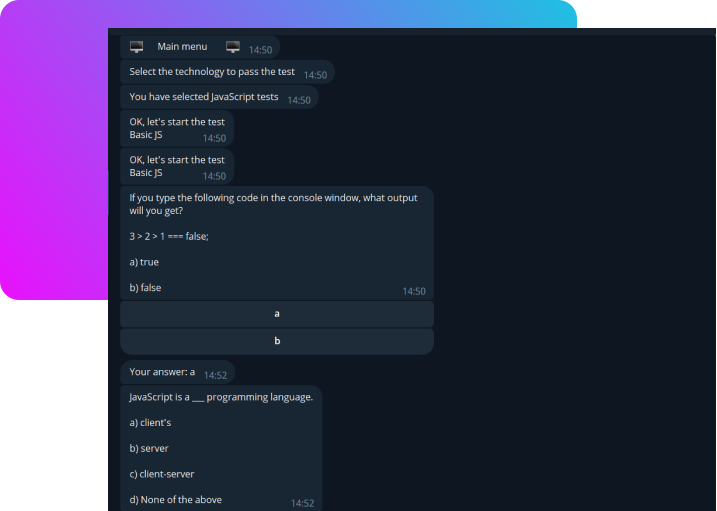
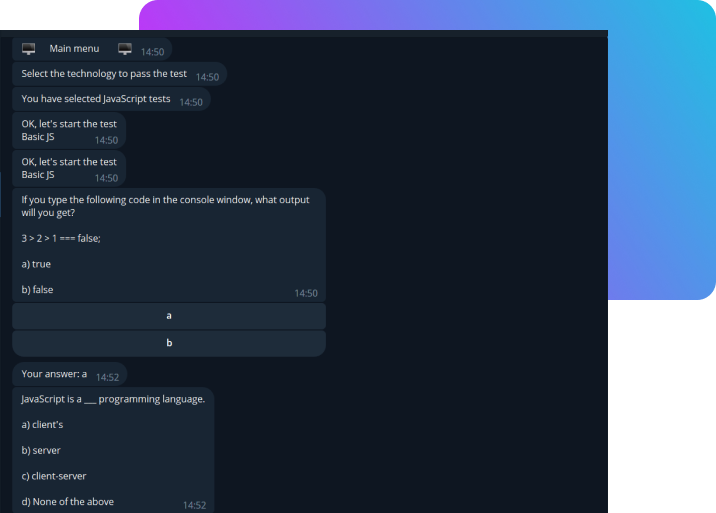
Add animation for information block

diff --git a/src/components/ForHomePage/InformationBlockMain/InformationTelegram/InformationTelegram.js b/src/components/ForHomePage/InformationBlockMain/InformationTelegram/InformationTelegram.js
@@ -1,73 +1,33 @@
 import React, {useEffect, useState} from 'react';
+import {useSelector} from 'react-redux';
 
 import css from '../InformationTesting/InformationTesting.module.css';
 import cssThis from '../InformationCollaboration/InformationCollaboration.module.css';
 import telegram from '../../../../images/information/telegramChat.png';
 import longColorArrow from '../../../../images/information/longColorArrow.svg';
-import {useSelector} from 'react-redux';
 
 const InformationTelegram = () => {
     const {EN} = useSelector(state => state['languageReducers']);
-    const [imageTelegramActive, setImageTelegramActive] = useState(false);
-    const [scrollTop, setScrollTop] = useState(0);
+    const [scrollTop, setScrollTop] = useState(false);
 
     useEffect(() => {
-        const onScroll = e => {
-            setScrollTop(e.target.documentElement.scrollTop);
-        };
-        window.addEventListener('scroll', onScroll);
+            window.addEventListener('scroll', function () {
+                let element = document.querySelector('#telegramInfo');
+                let position = element.getBoundingClientRect();
 
-        return () => window.removeEventListener('scroll', onScroll);
-    }, [scrollTop]);
-
-    useEffect(() => {
-        if (window.innerWidth > 1300) {
-            if (scrollTop >= 3 * window.innerHeight) {
-                setImageTelegramActive(true);
-            } else {
-                setImageTelegramActive(false);
-            }
-        } else if (window.innerWidth > 1200) {
-            if (scrollTop >= 2.35 * window.innerHeight) {
-                setImageTelegramActive(true);
-            } else {
-                setImageTelegramActive(false);
-            }
-        } else if (window.innerWidth > 992) {
-            if (scrollTop >= 2.25 * window.innerHeight) {
-                setImageTelegramActive(true);
-            } else {
-                setImageTelegramActive(false);
-            }
-        } else if (window.innerWidth > 767) {
-            if (scrollTop >= 1.9 * window.innerHeight) {
-                setImageTelegramActive(true);
-            } else {
-                setImageTelegramActive(false);
-            }
-        } else if (window.innerWidth > 576) {
-            if (scrollTop >= 1.6 * window.innerHeight) {
-                setImageTelegramActive(true);
-            } else {
-                setImageTelegramActive(false);
-            }
-        }  else if (window.innerWidth > 400) {
-            if (scrollTop >= 1.35 * window.innerHeight) {
-                setImageTelegramActive(true);
-            } else {
-                setImageTelegramActive(false);
-            }
-        }else {
-            if (scrollTop >= 1.2 * window.innerHeight) {
-                setImageTelegramActive(true);
-            } else {
-                setImageTelegramActive(false);
-            }
+                if (position.top < window.innerHeight && position.bottom >= 0) {
+                    setScrollTop(true);
+                } else {
+                    setScrollTop(false)
+                }
+            });
         }
-    }, [scrollTop]);
+        ,
+        [scrollTop]
+    );
 
     return (
-        <div className={css.testing__main}>
+        <div id="telegramInfo" className={css.testing__main}>
             <div className={css.testing__text_box}>
                 <h4 className={css.testing__header}>
                     {EN ? 'Telegram bot' :
@@ -92,7 +52,7 @@ const InformationTelegram = () => {
 
             <div className={cssThis.testing__animation}>
                 <img src={telegram} alt="testing"
-                     className={imageTelegramActive ? cssThis.testing__img_active : cssThis.testing__img}/>
+                     className={scrollTop ? cssThis.testing__img_active : cssThis.testing__img}/>
             </div>
         </div>
     );

diff --git a/src/components/ForHomePage/InformationBlockMain/InformationCollaboration/InformationCollaboration.js b/src/components/ForHomePage/InformationBlockMain/InformationCollaboration/InformationCollaboration.js
@@ -10,63 +10,30 @@ import longColorArrow from '../../../../images/information/longColorArrow.svg';
 const InformationCollaboration = () => {
     const navigate = useNavigate();
     const {EN} = useSelector(state => state['languageReducers']);
-    const [imageCollaborationActive, setImageCollaborationActive] = useState(false);
-    const [scrollTop, setScrollTop] = useState(0);
+    const [scrollTop, setScrollTop] = useState(false);
 
     useEffect(() => {
-        const onScroll = e => {
-            setScrollTop(e.target.documentElement.scrollTop);
-        };
-        window.addEventListener('scroll', onScroll);
+            window.addEventListener('scroll', function () {
+                let element = document.querySelector('#collaborationInfo');
+                let position = element.getBoundingClientRect();
 
-        return () => window.removeEventListener('scroll', onScroll);
-    }, [scrollTop]);
+                if (position.top < window.innerHeight && position.bottom >= 0) {
+                    setScrollTop(true);
+                } else {
+                    setScrollTop(false)
+                }
 
-    useEffect(() => {
-        if (window.innerWidth > 1300) {
-            if (scrollTop >= 2 * window.innerHeight) {
-                setImageCollaborationActive(true);
-            } else {
-                setImageCollaborationActive(false);
-            }
-        } else if (window.innerWidth > 1200) {
-            if (scrollTop >= 1.7 * window.innerHeight) {
-                setImageCollaborationActive(true);
-            } else {
-                setImageCollaborationActive(false);
-            }
-        } else if (window.innerWidth > 992) {
-            if (scrollTop >= 1.65 * window.innerHeight) {
-                setImageCollaborationActive(true);
-            } else {
-                setImageCollaborationActive(false);
-            }
-        } else if (window.innerWidth > 767) {
-            if (scrollTop >= 1.5 * window.innerHeight) {
-                setImageCollaborationActive(true);
-            } else {
-                setImageCollaborationActive(false);
-            }
-        } else if (window.innerWidth > 576) {
-            if (scrollTop >= 1.3 * window.innerHeight) {
-                setImageCollaborationActive(true);
-            } else {
-                setImageCollaborationActive(false);
-            }
-        } else {
-            if (scrollTop >= 1.05 * window.innerHeight) {
-                setImageCollaborationActive(true);
-            } else {
-                setImageCollaborationActive(false);
-            }
+            });
         }
-    }, [scrollTop]);
+        ,
+        [scrollTop]
+    );
 
     return (
-        <div className={css.testing__main}>
+        <div id="collaborationInfo" className={css.testing__main}>
             <div className={cssThis.testing__animation}>
                 <img src={collaboration} alt="testing"
-                     className={imageCollaborationActive ? cssThis.testing__img_active : cssThis.testing__img}/>
+                     className={scrollTop ? cssThis.testing__img_active : cssThis.testing__img}/>
             </div>
 
             <div className={css.testing__text_box}>

diff --git a/src/components/ForHomePage/InformationBlockMain/InformationTesting/InformationTesting.js b/src/components/ForHomePage/InformationBlockMain/InformationTesting/InformationTesting.js
@@ -9,63 +9,31 @@ import {useSelector} from 'react-redux';
 
 const InformationTesting = () => {
     const {EN} = useSelector(state => state['languageReducers']);
-    const [imageTestingActive, setImageTestingActive] = useState(false);
-    const [scrollTop, setScrollTop] = useState(0);
+    const [scrollTop, setScrollTop] = useState(false);
     const navigate = useNavigate();
 
     useEffect(() => {
-        const onScroll = e => {
-            setScrollTop(e.target.documentElement.scrollTop);
-        };
-        window.addEventListener('scroll', onScroll);
+            window.addEventListener('scroll', function () {
+                let element = document.querySelector('#testingInfo');
+                let position = element.getBoundingClientRect();
 
-        return () => window.removeEventListener('scroll', onScroll);
-    }, [scrollTop]);
-
-    useEffect(() => {
-            if (window.innerWidth > 1300) {
-                if (scrollTop >= 1.5 * window.innerHeight) {
-                    setImageTestingActive(true);
+                if (position.top < window.innerHeight && position.bottom >= 0) {
+                    setScrollTop(true);
                 } else {
-                    setImageTestingActive(false);
+                    setScrollTop(false)
                 }
-            } else if (window.innerWidth > 1200) {
-                if (scrollTop >= 0.95 * window.innerHeight) {
-                    setImageTestingActive(true);
-                } else {
-                    setImageTestingActive(false);
-                }
-            } else if (window.innerWidth > 767) {
-                if (scrollTop >= window.innerHeight) {
-                    setImageTestingActive(true);
-                } else {
-                    setImageTestingActive(false);
-                }
-            } else if (window.innerWidth > 576) {
-                if (scrollTop >= 0.95 * window.innerHeight) {
-                    setImageTestingActive(true);
-                } else {
-                    setImageTestingActive(false);
-                }
-            } else {
-                if (scrollTop >= 0.85 * window.innerHeight) {
-                    setImageTestingActive(true);
-                } else {
-                    setImageTestingActive(false);
-                }
-            }
+            });
         }
         ,
         [scrollTop]
-    )
-    ;
+    );
 
     window.addEventListener('load', function () {
         navigate('/');
-    })
+    });
 
     return (
-        <div className={css.testing__main}>
+        <div id="testingInfo" className={css.testing__main}>
             <div className={css.testing__text_box}>
                 <h4 className={css.testing__header}>
                     {EN ? 'Testing' :
@@ -92,7 +60,7 @@ const InformationTesting = () => {
 
             <div className={cssThis.testing__animation}>
                 <img src={testing} alt="testing"
-                     className={imageTestingActive ? cssThis.testing__img_active : cssThis.testing__img}/>
+                     className={scrollTop ? cssThis.testing__img_active : cssThis.testing__img}/>
             </div>
         </div>
     );
